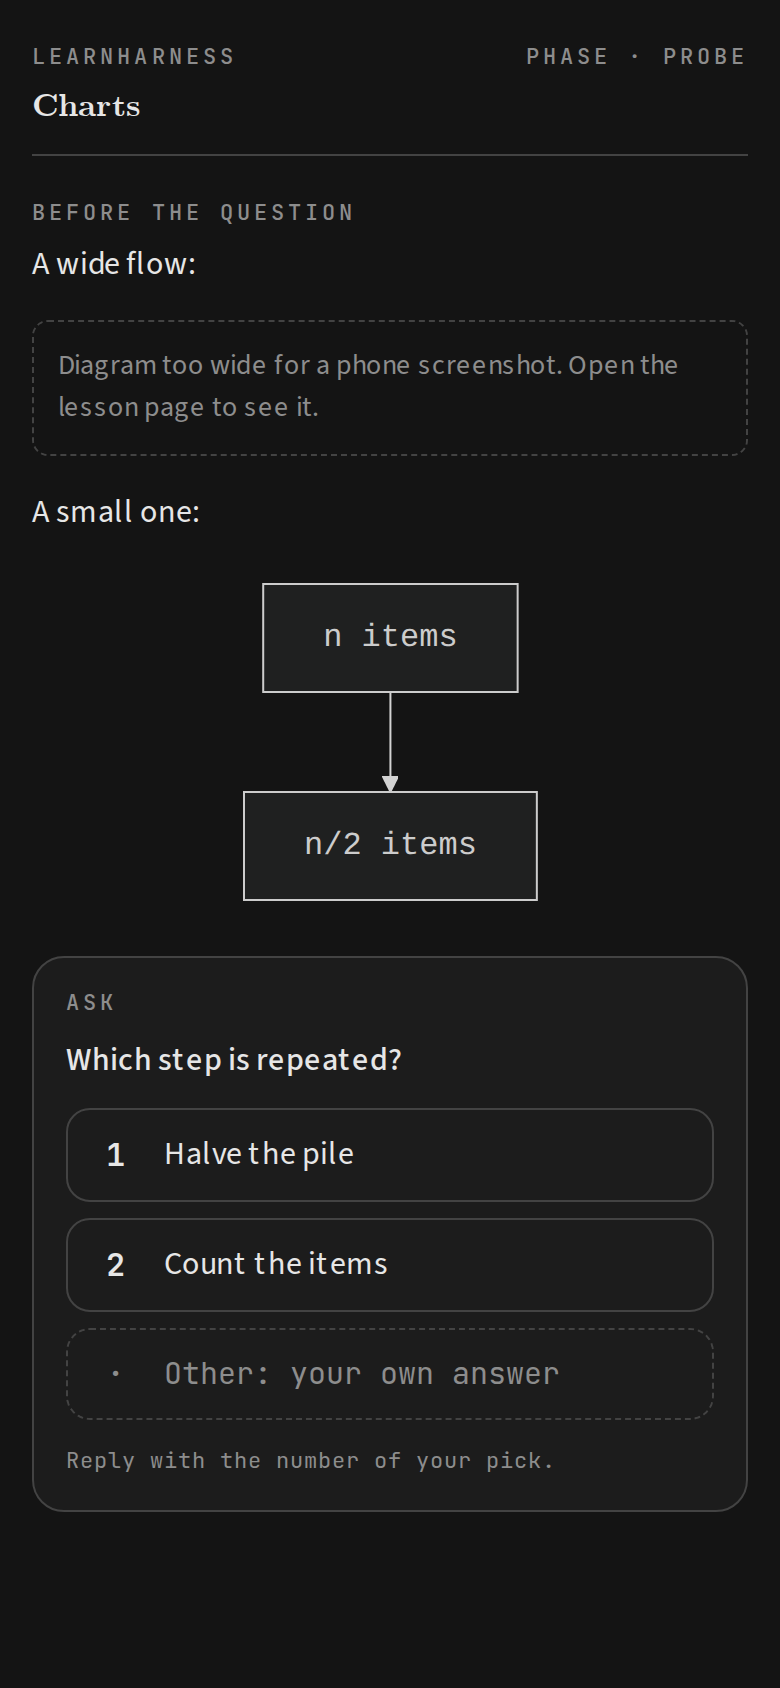
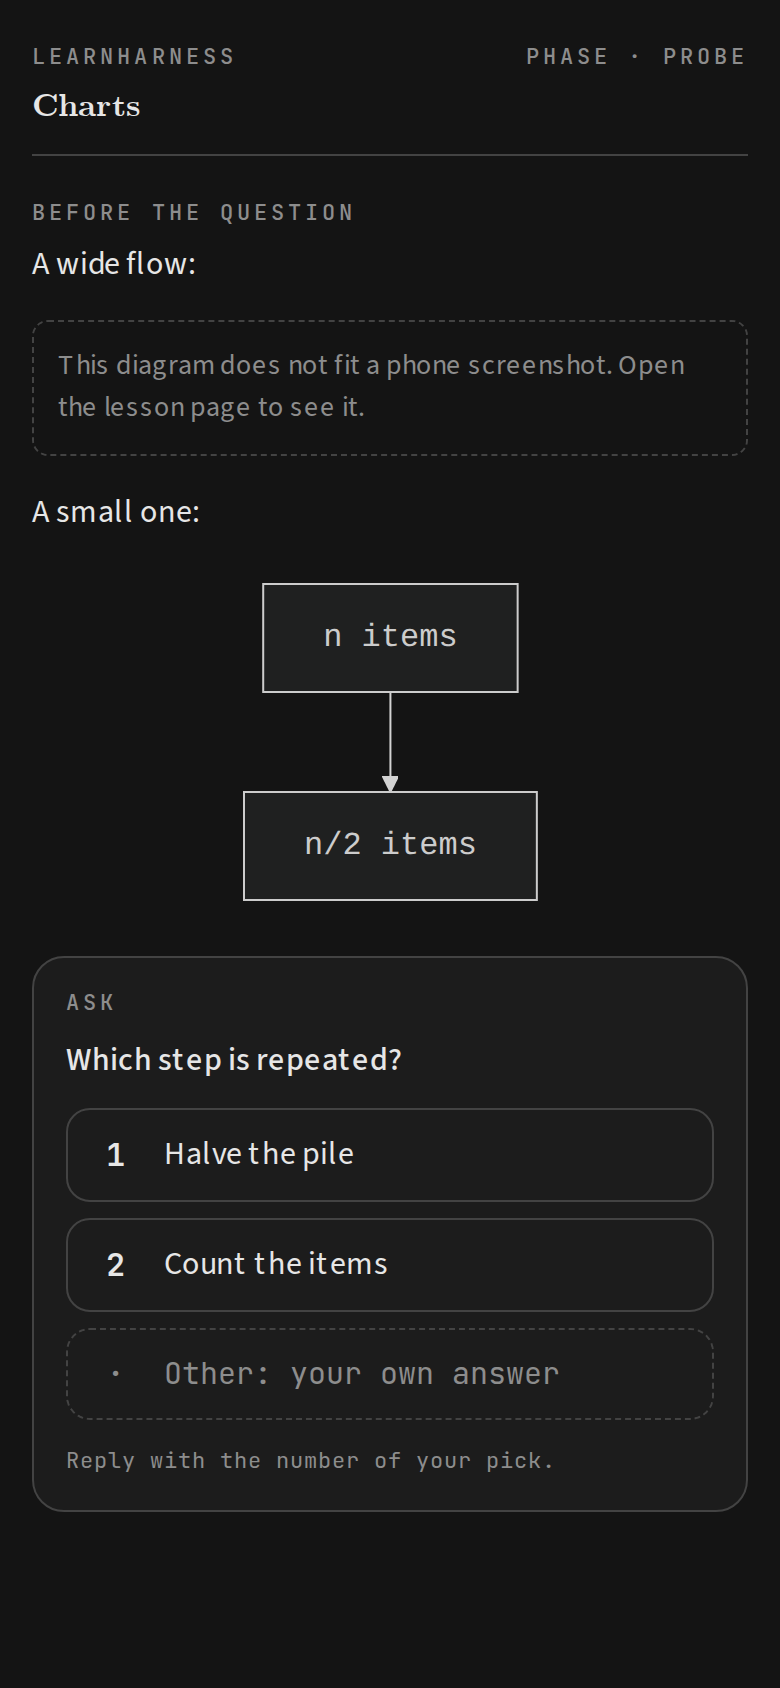
external-teacher 22: judge a chart by its smallest label; note wording
Interrogate round 9 (seat A, finding 1): the chart rule read the first
label, a title drawn larger than the xy chart's ticks and the quadrant
chart's points, so 7-8 px labels stayed. It now reads the smallest label.
Screenshots retaken with a charts2 lesson. Not reviewed: round 9 was the
last allowed review round.

diff --git a/components/question-card.tsx b/components/question-card.tsx
@@ -89,9 +89,9 @@ const FIT_UNDERSHOOT = 0.97;
 // Mermaid draws labels at 16 svg units unless its styles say otherwise.
 const CHART_TEXT_UNITS = 16;
 const TOO_WIDE = "data-card-too-wide";
-// The note a too-wide chart shows instead (the attribute is set by the fit).
+// The note an unreadable chart shows instead (the attribute is set by the fit).
 const TOO_WIDE_CSS = `[${TOO_WIDE}] > * { display: none !important; }
-[${TOO_WIDE}]::after { content: "Diagram too wide for a phone screenshot. Open the lesson page to see it."; display: block; padding: 12px; border: 1px dashed var(--border); border-radius: 8px; color: var(--muted-foreground); font-size: 14px; }`;
+[${TOO_WIDE}]::after { content: "This diagram does not fit a phone screenshot. Open the lesson page to see it."; display: block; padding: 12px; border: 1px dashed var(--border); border-radius: 8px; color: var(--muted-foreground); font-size: 14px; }`;
 
 /** A screenshot cannot scroll sideways. The page's renderers put wide
  *  display math, tables and code blocks in horizontal scrollers; shrink
@@ -157,8 +157,14 @@ function useFitWideContent(ref: React.RefObject<HTMLDivElement | null>) {
 				const svg = chart.querySelector("svg");
 				const viewWidth = svg?.viewBox.baseVal?.width;
 				if (!svg || !viewWidth) continue;
-				const label = svg.querySelector(".nodeLabel, text");
-				const units = parseFloat(getComputedStyle(label ?? svg).fontSize) || CHART_TEXT_UNITS;
+				// Judge by the smallest label: a title or quadrant name is drawn
+				// larger than the tick and point labels next to it.
+				let units = Infinity;
+				for (const label of svg.querySelectorAll(".nodeLabel, text")) {
+					if (!label.textContent?.trim()) continue;
+					units = Math.min(units, parseFloat(getComputedStyle(label).fontSize) || CHART_TEXT_UNITS);
+				}
+				if (units === Infinity) units = CHART_TEXT_UNITS;
 				if ((svg.getBoundingClientRect().width / viewWidth) * units < MIN_NODE_TEXT_PX) chart.setAttribute(TOO_WIDE, "");
 			}
 			// Inline math is no scroller: KaTeX keeps a formula on one line

diff --git a/.scratch/external-teacher/card-22/README.md b/.scratch/external-teacher/card-22/README.md
@@ -4,7 +4,7 @@ The card at `/chat/<lesson id>/card` shows the same view for ordinary lessons as
 
 To retake every image: `bash .scratch/external-teacher/card-22/retake.sh` from the repo root (it starts and stops its own `next dev` on port 3722 and prints the capture report to /tmp/lh22-shot.txt).
 
-Made 2026-11-02 on linuxdev, retaken after the round-8 fixes (a chart whose labels would read under 10 px shows a note instead, the plan map's threshold; zoom steps undershoot so wide math, tables and inline formulas fit exactly; inline formulas shrink to their box; links render as plain links; a code block that would need less than half size wraps instead) (the card is in the page flow and hides the app shell; wide content, code blocks included, shrinks to fit the column; long words and inline code break; the renderers' copy buttons are hidden). The probe lesson's call id is new each run, so its shuffle differs between captures.
+Made 2026-11-02 on linuxdev, retaken after the round-8 fixes (a chart whose smallest label would read under 10 px shows a note instead, the plan map's threshold; zoom steps undershoot so wide math, tables and inline formulas fit exactly; inline formulas shrink to their box; links render as plain links; a code block that would need less than half size wraps instead) (the card is in the page flow and hides the app shell; wide content, code blocks included, shrinks to fit the column; long words and inline code break; the renderers' copy buttons are hidden). The probe lesson's call id is new each run, so its shuffle differs between captures.
 
 - Server: `LH_DATA_DIR=<temp dir> LH_IGNORE_ENV_KEYS=1 npx next dev -H 127.0.0.1 -p 3722`, with the desktop variables unset and no keys.
 - Lessons were created with `scripts/lh.mjs`. Every JSON payload containing `$` went through `--file` (the files are in this folder):
@@ -15,8 +15,9 @@ Made 2026-11-02 on linuxdev, retaken after the round-8 fixes (a chart whose labe
   - longword: `lesson new`, then `probe --file longword-probe.json` (a 90-character word in the lead-in and an option, a long inline-code option, and an inline formula with no break point)
   - links: `lesson new`, `say --file links-say.txt`, then `probe --file links-probe.json` (Markdown links and a bare URL in teaching, lead-in, question and options, and a 153-character code line)
   - charts: `lesson new`, `say --file charts-say.txt` (a wide left-to-right chart, shown as a note, and a small top-down chart), then `ask --file charts-ask.json`
+  - charts2: `lesson new`, `say --file charts2-say.txt` (an xy chart and a quadrant chart whose tick and point labels are smaller than their titles; both show the note), then `ask --file charts-ask.json`
   - none: `lesson new`, then `say --file say.txt`
-- Capture: `node shot.mjs http://127.0.0.1:3722 <out dir> probe=<id> quiz=<id> plan9=<id> wide=<id> longword=<id> links=<id> charts=<id> none=<id>`. It uses puppeteer-core with chrome-headless-shell at 390 x 844 CSS px, DPR 2, and a plain full-page screenshot, the way a bot would take one.
+- Capture: `node shot.mjs http://127.0.0.1:3722 <out dir> probe=<id> quiz=<id> plan9=<id> wide=<id> longword=<id> links=<id> charts=<id> charts2=<id> none=<id>`. It uses puppeteer-core with chrome-headless-shell at 390 x 844 CSS px, DPR 2, and a plain full-page screenshot, the way a bot would take one.
 - Its output for this capture:
 
 ```
@@ -27,6 +28,7 @@ wide {"shownButtons":0,"documentHeight":1085,"cardHeight":1086,"documentWidth":3
 longword {"shownButtons":0,"documentHeight":844,"cardHeight":844,"documentWidth":390,"clipped":[],"outside":[]}
 links {"shownButtons":0,"documentHeight":845,"cardHeight":845,"documentWidth":390,"clipped":[],"outside":[]}
 charts {"shownButtons":0,"documentHeight":844,"cardHeight":844,"documentWidth":390,"clipped":[],"outside":[]}
+charts2 {"shownButtons":0,"documentHeight":844,"cardHeight":844,"documentWidth":390,"clipped":[],"outside":[]}
 none {"shownButtons":0,"documentHeight":844,"cardHeight":844,"documentWidth":390,"clipped":[],"outside":[]}
 non-GET requests: []
 ```
